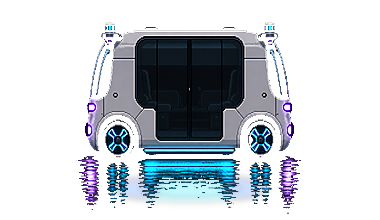
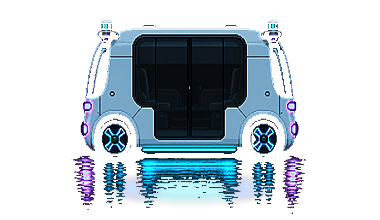
Tint Zoox body a soft steel blue
Keep the compact reference silhouette and neon accents, but shift pale
body panels to a cool Zoox blue for night-road readability.

Changed region(s): [[0.1737, 0.0818, 0.8105, 0.9818]]

diff --git a/scripts/art/make_zoox_robotaxi.py b/scripts/art/make_zoox_robotaxi.py
@@ -67,21 +67,32 @@ def key_background(src: Image.Image) -> Image.Image:
 
 
 def polish_colors(img: Image.Image) -> Image.Image:
-    """Keep off-white body; punch cyan / purple neon for the night road."""
+    """Tint pale body panels soft Zoox blue; punch cyan / purple neon."""
     arr = np.array(img).astype(np.float32)
     r, g, b, a = arr[..., 0], arr[..., 1], arr[..., 2], arr[..., 3]
+    lum = 0.2126 * r + 0.7152 * g + 0.0722 * b
+    mx = np.maximum(np.maximum(r, g), b)
+    mn = np.minimum(np.minimum(r, g), b)
+    sat = (mx - mn) / np.maximum(mx, 1.0)
 
-    # Slight cool lift on pale body panels (not mint).
-    pale = (a > 180) & (r > 150) & (g > 150) & (b > 150) & (np.abs(r - g) < 25) & (np.abs(g - b) < 25)
-    r = np.where(pale, np.minimum(255, r * 1.02 + 4), r)
-    g = np.where(pale, np.minimum(255, g * 1.02 + 4), g)
-    b = np.where(pale, np.minimum(255, b * 1.03 + 6), b)
+    neon_cyan = (b > 140) & (g > 110) & (r < 130) & (b > r + 30)
+    neon_purp = (r > 110) & (b > 130) & (g < r * 0.9) & (b > g + 20)
+    dark = lum < 70
+    body = (a > 160) & (~neon_cyan) & (~neon_purp) & (~dark) & (sat < 0.38) & (lum > 85)
 
-    cyan = (b > 140) & (g > 120) & (r < 120) & (a > 100)
+    t = np.clip((lum - 90) / 140.0, 0, 1)
+    br = 74 + t * 90
+    bg_ = 139 + t * 70
+    bb = 184 + t * 50
+    blend = 0.84
+    r = np.where(body, r * (1 - blend) + br * blend, r)
+    g = np.where(body, g * (1 - blend) + bg_ * blend, g)
+    b = np.where(body, b * (1 - blend) + bb * blend, b)
+
+    cyan = neon_cyan & (a > 100)
     g = np.where(cyan, np.minimum(255, g * 1.08), g)
     b = np.where(cyan, np.minimum(255, b * 1.12), b)
-
-    purp = (r > 120) & (b > 140) & (g < r * 0.85) & (a > 100)
+    purp = neon_purp & (a > 100)
     r = np.where(purp, np.minimum(255, r * 1.1), r)
     b = np.where(purp, np.minimum(255, b * 1.08), b)
 
